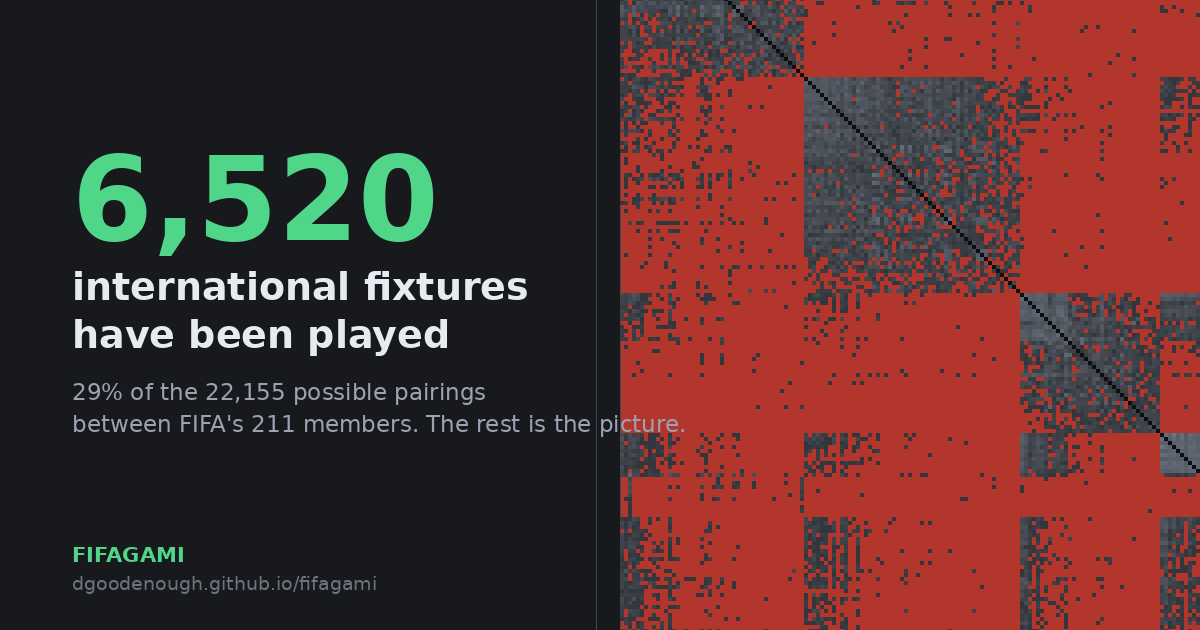
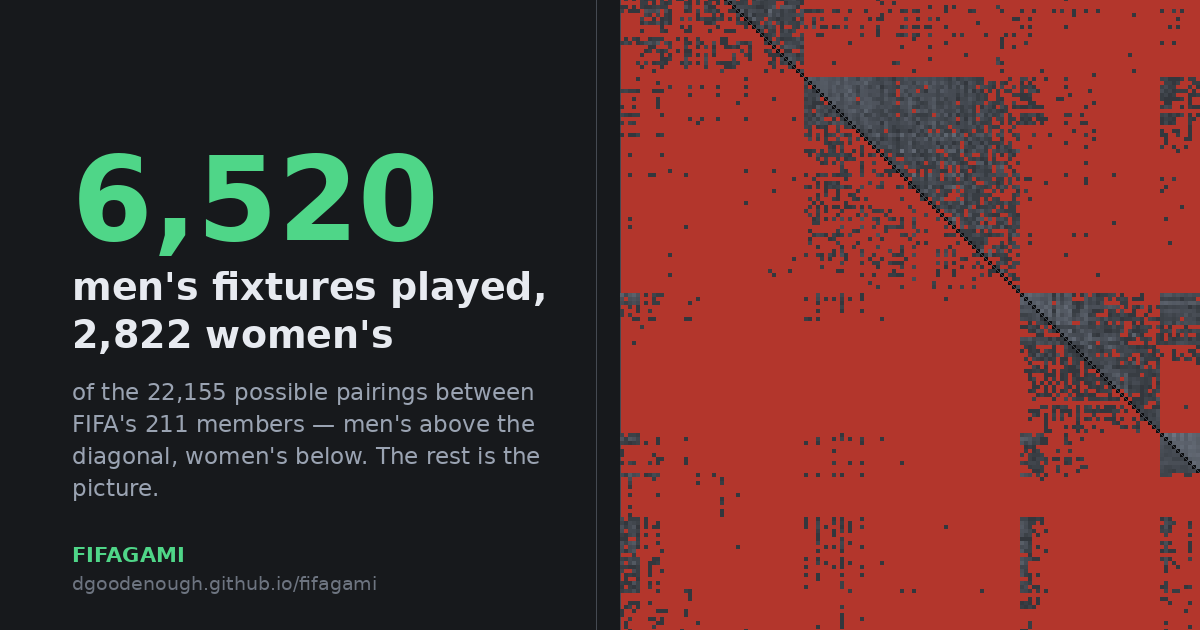
Draw the hero and the share card as the unfolded sheet
The README image and the og card were the men's grid as a full mirrored
square — a view the site no longer has. Both now render the sheet the app
opens on: the men's record above the diagonal, the women's below, on the
shared ramp, with the crease ruled and each half watermarked.

The re-sort matters more than the colours. members.json is written in
men's-rank order, but one sheet cannot be sorted by a table it only half
uses, so the app ranks a team by its better rank of the two. render_hero.py
now does the same, and the order it produces is identical to S.order in the
browser, which is the only reason the picture can be trusted to match.

The card keeps its fragment framing and skips the watermarks, since one of
the two would fall off the edge; its text column carries the split instead,
and the copy is wrapped by measurement now. The old hand-wrapped line ran
about fifty pixels past the column and onto the grid.

The social meta tags are stamped from the data, so they move too: they name
both archives and the alt text describes a grid split down its diagonal,
with far more red below it than above.

Claude-Session: https://claude.ai/code/session_01Ktg1PkqJw6sBz1Wh5qyDsh

diff --git a/docs/index.html b/docs/index.html
@@ -4,22 +4,22 @@
 <meta charset="utf-8" />
 <meta name="viewport" content="width=device-width, initial-scale=1, viewport-fit=cover" />
 <title>FIFAGami — every international football fixture</title>
-<meta name="description" content="A Scorigami-style grid of every international football fixture. Every FIFA nation is a row and a column, and 6,520 of the 22,155 possible pairings between the 211 members have been played." />
+<meta name="description" content="A Scorigami-style grid of every international football fixture. Every FIFA nation is a row and a column, with the men's game above the diagonal and the women's below it. Of the 22,155 possible pairings between the 211 members, 6,520 have been played by men and 2,822 by women." />
 <link rel="canonical" href="https://dgoodenough.github.io/fifagami/" />
 
 <!-- Share card. Absolute URLs: crawlers do not resolve relative ones. -->
 <meta property="og:type" content="website" />
 <meta property="og:site_name" content="FIFAGami" />
 <meta property="og:title" content="FIFAGami — every international football fixture" />
-<meta property="og:description" content="Every FIFA nation is a row and a column. 6,520 of the 22,155 possible fixtures have been played." />
+<meta property="og:description" content="Every FIFA nation is a row and a column, the men's game above the diagonal and the women's below it: 6,520 fixtures played against 2,822." />
 <meta property="og:url" content="https://dgoodenough.github.io/fifagami/" />
 <meta property="og:image" content="https://dgoodenough.github.io/fifagami/assets/og.png" />
 <meta property="og:image:width" content="1200" />
 <meta property="og:image:height" content="630" />
-<meta property="og:image:alt" content="A 211 by 211 grid of international football fixtures. Red marks a pairing the two teams have never played, grey one they have, and most of the grid is red. The headline reads 6,520 international fixtures have been played." />
+<meta property="og:image:alt" content="A 211 by 211 grid of international football fixtures, split down the diagonal: the men's record above it, the women's below. Red marks a pairing the two teams have never played and grey one they have. Most of the grid is red, and far more of the women's half than the men's." />
 <meta name="twitter:card" content="summary_large_image" />
 <meta name="twitter:title" content="FIFAGami — every international football fixture" />
-<meta name="twitter:description" content="Every FIFA nation is a row and a column. 6,520 of the 22,155 possible fixtures have been played." />
+<meta name="twitter:description" content="Every FIFA nation is a row and a column, the men's game above the diagonal and the women's below it: 6,520 fixtures played against 2,822." />
 <meta name="twitter:image" content="https://dgoodenough.github.io/fifagami/assets/og.png" />
 
 <link rel="icon" type="image/svg+xml" href="assets/favicon.svg" />

diff --git a/render_hero.py b/render_hero.py
@@ -1,7 +1,7 @@
 #!/usr/bin/env python3
 """Render the project's raster images from the built data.
 
-  docs/assets/hero.png            the men's grid, for the README
+  docs/assets/hero.png            the unfolded sheet, for the README
   docs/assets/og.png              1200x630 share card (og:image / twitter:image)
   docs/assets/apple-touch-icon.png  180x180 home-screen icon
 
@@ -88,11 +88,38 @@ def ramp(t: float) -> tuple[int, int, int]:
     return RAMP[-1][1]
 
 
-def load_grid(gender: str = "men"):
-    members = json.loads((DOCS / "data/members.json").read_text(encoding="utf-8"))["members"]
-    matrix = json.loads((DOCS / f"data/matrix_{gender}.json").read_text(encoding="utf-8"))
-    counts = {(p[0], p[1]): p[2] for p in matrix["pairs"]}
-    return members, matrix, counts
+def load_sheet():
+    """The members in the order the app puts them in, and both archives' meeting counts.
+
+    members.json is written in men's-rank order, but the sheet carries both games, and one
+    sheet cannot be sorted by a table it only half uses: the app orders a team by its better
+    rank of the two. Re-sort here, or the picture stops matching the site.
+
+    Both halves are read against the busiest fixture in either archive, exactly as the app
+    does, so the women's half comes out genuinely paler rather than being flattered by a
+    scale of its own."""
+    data = json.loads((DOCS / "data/members.json").read_text(encoding="utf-8"))
+    confed_order = data["confederation_order"]
+
+    def rank(m):
+        rs = [r for r in (m["mens_rank"], m["womens_rank"]) if r is not None]
+        return min(rs) if rs else 10 ** 9
+
+    members = sorted(data["members"],
+                     key=lambda m: (confed_order.index(m["confed"]), rank(m), m["name"]))
+    counts, played, max_count = {}, {}, 1
+    for gender in ("men", "women"):
+        matrix = json.loads((DOCS / f"data/matrix_{gender}.json").read_text(encoding="utf-8"))
+        counts[gender] = {(p[0], p[1]): p[2] for p in matrix["pairs"]}
+        played[gender] = len(matrix["pairs"])
+        max_count = max(max_count, matrix["max_count"])
+    return members, counts, played, max_count
+
+
+def watermark_ink() -> tuple[int, int, int]:
+    """The half-labels, matching the canvas: --ink at 62% over the page ground."""
+    c0, c1 = hexrgb(CHROME), hexrgb(VARS["--ink"])
+    return tuple(round(a + (b - a) * 0.62) for a, b in zip(c0, c1))
 
 
 def played_grey(t: float) -> tuple[int, int, int]:
@@ -103,32 +130,53 @@ def played_grey(t: float) -> tuple[int, int, int]:
     return tuple(round(a + (b - a) * t) for a, b in zip(c0, c1))
 
 
-def draw_grid(d: ImageDraw.ImageDraw, members, matrix, counts, ox: int, oy: int,
-              cell: int, band: int | None = None, never: bool = False) -> int:
-    """Paint the matrix at (ox, oy). Returns its pixel size.
+def draw_grid(d: ImageDraw.ImageDraw, members, counts, max_count, ox: int, oy: int,
+              cell: int, band: int | None = None, never: bool = False,
+              label: bool = False) -> int:
+    """Paint the unfolded sheet at (ox, oy). Returns its pixel size.
 
-    never=True renders the landing view: the pairings that have not happened flood red and
+    Every pairing appears twice in a symmetric matrix, so half the grid was only ever a
+    mirror: the men's record goes above the diagonal and the women's below it, which is
+    what the site shows on the view it opens on.
+
+    never=True renders that landing view: the pairings that have not happened flood red and
     the ones that have fade to grey, so the picture is of the absence rather than the
-    record. The site opens this way, so the hero and the share card have to as well."""
-    max_log = math.log1p(matrix["max_count"])
-    order = [m["id"] for m in members]              # members.json is pre-sorted confed+rank
+    record. label=True adds the crease's two watermarks, which only fit when the whole
+    sheet is in frame."""
+    max_log = math.log1p(max_count)
+    order = [m["id"] for m in members]
     confed = {m["id"]: m["confed"] for m in members}
     n = len(order)
+    size = n * cell
 
     ground = hexrgb(VARS["--never-hi"]) if never else SHEET
-    d.rectangle([ox, oy, ox + n * cell, oy + n * cell], fill=ground, outline=GRID_STRONG)
+    d.rectangle([ox, oy, ox + size, oy + size], fill=ground, outline=GRID_STRONG)
     for r, a in enumerate(order):
         for c, b in enumerate(order):
             if a == b:
                 col = DIAG
             else:
-                cnt = counts.get((min(a, b), max(a, b)), 0)
+                gender = "men" if c > r else "women"
+                cnt = counts[gender].get((min(a, b), max(a, b)), 0)
                 if not cnt:
                     continue                        # never-played = the ground, already painted
                 col = played_grey(math.log1p(cnt) / max_log) if never \
                     else ramp(math.log1p(cnt) / max_log)
             x, y = ox + c * cell, oy + r * cell
             d.rectangle([x, y, x + cell - 1, y + cell - 1], fill=col)
+
+    # The crease. Without a rule down it the two archives read as one noisy square.
+    d.line([(ox, oy), (ox + size, oy + size)],
+           fill=GRID_STRONG, width=max(1, min(3, round(cell * 0.3))))
+    if label:
+        pt = max(12, min(58, size // 15))
+        font = load_font(pt)
+        for text, fx, fy in (("MEN'S", 0.70, 0.28), ("WOMEN'S", 0.30, 0.72)):
+            box = d.textbbox((0, 0), text, font=font)
+            d.text((ox + size * fx - (box[2] - box[0]) / 2 - box[0],
+                    oy + size * fy - (box[3] - box[1]) / 2 - box[1]),
+                   text, font=font, fill=watermark_ink(),
+                   stroke_width=max(2, pt // 8), stroke_fill=hexrgb(CHROME))
 
     if band:                                        # confederation strips (top + left)
         font = load_font(max(9, band - 3))
@@ -153,6 +201,25 @@ def draw_grid(d: ImageDraw.ImageDraw, members, matrix, counts, ox: int, oy: int,
     return n * cell
 
 
+def wrap(d: ImageDraw.ImageDraw, text: str, font, width: float) -> list[str]:
+    """Greedy-wrap to a pixel width.
+
+    The share card's text column is painted before the copy, so a line that outruns the
+    column is not clipped — it lands on the grid. Measuring beats counting characters."""
+    lines: list[str] = []
+    line = ""
+    for word in text.split():
+        trial = f"{line} {word}".strip()
+        if line and d.textlength(trial, font=font) > width:
+            lines.append(line)
+            line = word
+        else:
+            line = trial
+    if line:
+        lines.append(line)
+    return lines
+
+
 def draw_key(d: ImageDraw.ImageDraw, x: int, y: int, cell: int, order) -> None:
     """One line under the grid saying what the two colours and the strips mean.
 
@@ -172,12 +239,13 @@ def draw_key(d: ImageDraw.ImageDraw, x: int, y: int, cell: int, order) -> None:
 
 
 def render_hero() -> Path:
-    members, matrix, counts = load_grid("men")
+    members, counts, _played, max_count = load_sheet()
     KEY = 34                                        # strip under the grid for the key
     span = MARGIN + len(members) * CELL + 12
     img = Image.new("RGB", (span, span + KEY), CHROME)
     d = ImageDraw.Draw(img)
-    draw_grid(d, members, matrix, counts, MARGIN, MARGIN, CELL, BAND, never=True)
+    draw_grid(d, members, counts, max_count, MARGIN, MARGIN, CELL, BAND,
+              never=True, label=True)
     seen = list(dict.fromkeys(m["confed"] for m in members))
     draw_key(d, MARGIN, span + 4, CELL, seen)
     out = DOCS / "assets/hero.png"
@@ -192,11 +260,9 @@ def render_og() -> Path:
     This is what a paste of the URL renders as in Slack, iMessage, Bluesky and the rest —
     the single most-seen view of the project, and until now it was a blank rectangle."""
     W, H = 1200, 630
-    members, matrix, counts = load_grid("men")
+    members, counts, played, max_count = load_sheet()
     n = len(members)
     possible = n * (n - 1) // 2
-    never = possible - len(matrix["pairs"])
-    pct = 100 * len(matrix["pairs"]) / possible
 
     img = Image.new("RGB", (W, H), CHROME)
     d = ImageDraw.Draw(img)
@@ -206,7 +272,9 @@ def render_og() -> Path:
     PANEL = 596                                     # text column width
     cell = 4
     grid_px = n * cell
-    draw_grid(d, members, matrix, counts, PANEL + 24, (H - grid_px) // 2, cell, never=True)
+    # No watermarks here: the card shows a fragment, and one of the two would fall off it.
+    # The crease still runs through the fragment, and the text column says what it divides.
+    draw_grid(d, members, counts, max_count, PANEL + 24, (H - grid_px) // 2, cell, never=True)
 
     # Text column painted over the grid, so a long line can never collide with it.
     d.rectangle([0, 0, PANEL, H], fill=CHROME)
@@ -214,20 +282,21 @@ def render_og() -> Path:
     x, y = 72, 132
     # Green, because the numeral counts what has happened. It is the same green the grid
     # uses for a played pairing, and it holds up against near-black at thumbnail size.
-    d.text((x, y), f"{len(matrix['pairs']):,}", font=load_font(116),
+    column = PANEL - x - 24
+    d.text((x, y), f"{played['men']:,}", font=load_font(116),
            fill=hexrgb(VARS["--ramp-100"]))
     y += 132
-    for line, font, fill in (
-        ("international fixtures", load_font(38), (231, 234, 240)),
-        ("have been played", load_font(38), (231, 234, 240)),
-    ):
-        d.text((x, y), line, font=font, fill=fill)
+    head = load_font(38)
+    for line in wrap(d, f"men's fixtures played, {played['women']:,} women's", head, column):
+        d.text((x, y), line, font=head, fill=(231, 234, 240))
         y += 48
     y += 18
-    d.text((x, y), f"{pct:.0f}% of the {possible:,} possible pairings",
-           font=load_font(23, bold=False), fill=(154, 163, 178))
-    d.text((x, y + 32), f"between FIFA's {n} members. The rest is the picture.",
-           font=load_font(23, bold=False), fill=(154, 163, 178))
+    body = load_font(23, bold=False)
+    for line in wrap(d, f"of the {possible:,} possible pairings between FIFA's {n} members "
+                        "— men's above the diagonal, women's below. The rest is the picture.",
+                     body, column):
+        d.text((x, y), line, font=body, fill=(154, 163, 178))
+        y += 32
 
     d.text((x, H - 88), "FIFAGAMI",
            font=load_font(21), fill=hexrgb(VARS["--ramp-100"]))
@@ -237,7 +306,8 @@ def render_og() -> Path:
 
     out = DOCS / "assets/og.png"
     img.save(out)
-    print(f"wrote {out} ({img.width}x{img.height}, {len(matrix['pairs']):,} played)")
+    print(f"wrote {out} ({img.width}x{img.height}, "
+          f"{played['men']:,} men's / {played['women']:,} women's)")
     return out
 
 

diff --git a/build.py b/build.py
@@ -868,25 +868,29 @@ def write_facts() -> int:
 # The share card is regenerated from the data every refresh. The meta description sat next
 # to it quoting a count somebody typed in by hand, which goes wrong the moment two teams
 # play. These four tags are written from the archives instead.
-def social_copy(members: list[dict], played: int, possible: int) -> dict[tuple[str, str], str]:
+def social_copy(members: list[dict], played: int, possible: int,
+                played_women: int) -> dict[tuple[str, str], str]:
     n = len(members)
     return {
         ("name", "description"):
             f"A Scorigami-style grid of every international football fixture. Every FIFA "
-            f"nation is a row and a column, and {played:,} of the {possible:,} possible "
-            f"pairings between the {n} members have been played.",
+            f"nation is a row and a column, with the men's game above the diagonal and the "
+            f"women's below it. Of the {possible:,} possible pairings between the {n} "
+            f"members, {played:,} have been played by men and {played_women:,} by women.",
         ("property", "og:description"):
-            f"Every FIFA nation is a row and a column. {played:,} of the {possible:,} "
-            f"possible fixtures have been played.",
+            f"Every FIFA nation is a row and a column, the men's game above the diagonal "
+            f"and the women's below it: {played:,} fixtures played against {played_women:,}.",
         ("name", "twitter:description"):
-            f"Every FIFA nation is a row and a column. {played:,} of the {possible:,} "
-            f"possible fixtures have been played.",
-        # Alt text describes the picture, which is mostly the red. Accuracy for a screen
-        # reader beats matching the headline's framing.
+            f"Every FIFA nation is a row and a column, the men's game above the diagonal "
+            f"and the women's below it: {played:,} fixtures played against {played_women:,}.",
+        # Alt text describes the picture, which is mostly the red — and now unmistakably
+        # more of it below the diagonal than above. Accuracy for a screen reader beats
+        # matching the headline's framing.
         ("property", "og:image:alt"):
-            f"A {n} by {n} grid of international football fixtures. Red marks a pairing "
-            f"the two teams have never played, grey one they have, and most of the grid "
-            f"is red. The headline reads {played:,} international fixtures have been played.",
+            f"A {n} by {n} grid of international football fixtures, split down the "
+            f"diagonal: the men's record above it, the women's below. Red marks a pairing "
+            f"the two teams have never played and grey one they have. Most of the grid is "
+            f"red, and far more of the women's half than the men's.",
     }
 
 
@@ -898,9 +902,11 @@ def stamp_index_html() -> int:
     n = len(members)
     possible = n * (n - 1) // 2
     played = len(json.loads((OUT / "matrix_men.json").read_text(encoding="utf-8"))["pairs"])
+    played_women = len(
+        json.loads((OUT / "matrix_women.json").read_text(encoding="utf-8"))["pairs"])
 
     written = 0
-    for (attr, key), text in social_copy(members, played, possible).items():
+    for (attr, key), text in social_copy(members, played, possible, played_women).items():
         if '"' in text:
             raise SystemExit(f"social copy for {key} contains a quote; it goes in an attribute")
         pattern = rf'(<meta {attr}="{re.escape(key)}" content=")[^"]*(")'

diff --git a/tests/test_build.py b/tests/test_build.py
@@ -237,7 +237,8 @@ class TestSiteAssets(unittest.TestCase):
         n = len(members)
         possible = n * (n - 1) // 2
         played = len(load("matrix_men.json")["pairs"])
-        for tag, text in build.social_copy(members, played, possible).items():
+        played_women = len(load("matrix_women.json")["pairs"])
+        for tag, text in build.social_copy(members, played, possible, played_women).items():
             self.assertTrue(text in html,
                             f"<meta {tag[0]}=\"{tag[1]}\"> is out of date; "
                             f"run python build.py --derive")

diff --git a/README.md b/README.md
@@ -8,10 +8,11 @@ and fewer than one in six of the women's. Every pairing is one cell of this grid
 
 **▶ Live: https://dgoodenough.github.io/fifagami/**
 
-![Every possible international fixture, played in grey and unplayed in red](docs/assets/hero.png)
+![Every possible international fixture, split down the diagonal: the men's record above it, the women's below, played in grey and unplayed in red](docs/assets/hero.png)
 
 Every current FIFA member is a row and a column. Each cell is a pairing. Red means those two
-national teams have never played each other, in 150 years of trying.
+national teams have never played each other, in 150 years of trying. The grid is creased down
+its diagonal: the men's record above it, the women's below.
 
 ## How to read it
 
@@ -129,8 +130,9 @@ It writes the artifacts the site loads:
 - `feed.json`, `feed.xml` — upcoming first meetings, as a subscribable feed
 
 `python render_hero.py` draws the README image, the share card and the touch icon. It reads the
-palette out of `docs/style.css`, so the pictures cannot drift from the site. The share card
-quotes a live figure, so the daily refresh regenerates it.
+palette out of `docs/style.css` and re-sorts the members the way the app does, so the pictures
+cannot drift from the site. The share card quotes live figures, so the daily refresh
+regenerates it.
 
 Then serve it:
 
